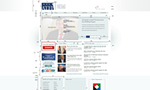
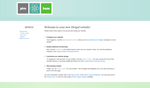
release

diff --git a/subthemes/piroshare/css/color.css b/subthemes/piroshare/css/color.css
@@ -1,1 +1,209 @@
 @CHARSET "ISO-8859-1";
+
+/* $Id$ */
+
+/* Global */
+
+body,
+body#tinymce {
+  background-color: #FFF;
+}
+
+body,
+table,
+td {
+  color: #333;
+}
+
+a:link {
+  color: #007EE4;
+}
+
+a:visited {
+  color: #899FAF;
+}
+
+a:hover {
+  color: #007EE4;
+}
+
+a:visited:hover {
+  color: #899FAF;
+}
+
+a:focus {
+  color: #333;
+}
+
+th a:link,
+th a:visited {
+  color: #A9D3E6;
+}
+
+/* Fieldsets */
+
+div.collapsible h2.fieldset-title {
+  background-color: #ccc;
+}
+
+div.expanded h2.fieldset-title a:link,
+div.expanded h2.fieldset-title a:visited {
+  color: #333;
+}
+
+h2.fieldset-title,
+div.collapsed h2.fieldset-title {
+  background-color: #E2E2E2;
+}
+
+div.fieldset-content,
+fieldset {
+  border: 1px solid #eee;
+}
+
+/* Tabs */
+
+ul.tabs li a:link,
+ul.tabs li a:visited {
+  background: #E6E6E6;
+  color: #007EE4;
+}
+
+ul.tabs li a.active {
+  color: #333;
+}
+
+/* Menus */
+
+li.active-trail a.active {
+  color: #333;
+}
+
+ul.nice-menu,
+ul.nice-menu ul,
+ul.nice-menu li {
+  border: none;
+}
+
+/* Messages */
+
+.status {
+  background-color: #CDFFD1;
+}
+
+.help {
+  background-color: #D2D9FF;
+}
+
+.notice {
+  background-color: #FFFDB5;
+}
+
+div.error {
+  background-color: #FCC;
+  border: none;
+}
+
+tr.error {
+  background-color: #FCC;
+  color: #333;
+}
+
+/* Nodes */
+
+.submitted {
+  color: #777;
+}
+
+/* Comments */
+
+.comment {
+  border-bottom: 1px solid #E6E6E6;
+}
+
+/* Forms */
+
+textarea,
+input.form-text,
+select {
+  border: 1px solid #ccc;  
+}
+
+input.form-text
+textarea,
+select {
+  color: #333;
+  background-color: #fff;
+}
+
+input.form-submit,
+input.teaser-button,
+input[type=button] {
+  background-color: #E6E6E6;
+  border: none;
+}
+
+input.form-text:focus,
+textarea:focus {
+  background-color: #F5F9FB;
+}
+
+.form-item input.error,
+.form-item textarea.error,
+.form-item select.error {
+  border: 1px solid #F88;
+}
+
+/* Admin */
+
+div.admin-dependencies,
+div.admin-required {
+  color: #A3A3A3;
+}
+
+/* Modules */
+
+#admin-menu li li {
+  opacity: 1;
+}
+
+/* Pirobase */
+
+#header_main {
+  background: url("../img/headerbg.jpg") no-repeat scroll center top transparent;
+}
+
+#header {
+  background: #BAE2DD;
+}
+
+#footer_top {
+  background: url("../img/footerbg.jpg") repeat-y scroll center top #D2EFC9;
+}
+
+#main_menu ul.links li a:hover {
+  background: #F7F8F7;
+}
+
+#main_menu ul.links li a {
+  color: #253F6A;
+}
+
+#main_menu ul.links li a.active {
+  background: #F7F8F7;
+}
+
+#header_search #search-theme-form input.form-text {
+  color: #8C8C8C;
+}
+
+#header_search #search-theme-form #edit-search-theme-form-1 {
+  background: #FFFFFF;
+}
+
+#header_search #search-theme-form input.search-default-font { 
+  color: #5A5A5A;
+}
+
+
+

diff --git a/css/color.css b/css/color.css
@@ -172,11 +172,11 @@ div.admin-required {
 }
 
 #header {
-  background: #eef1ef;
+  background: #BAE2DD;
 }
 
 #footer_top {
-  background: url("../img/footerbg.jpg") repeat-y scroll center top #eef1ef;
+  background: url("../img/footerbg.jpg") repeat-y scroll center top #D2EFC9;
 }
 
 #main_menu ul.links li a:hover {

diff --git a/css/htmlelements.css b/css/htmlelements.css
@@ -539,7 +539,7 @@ div.view-display-id-attachment_1 .teaser {
 
 /* End hide from IE-mac */
 
-/* Two State */
+/* Pirobase */
 
 #header_search #search-theme-form .form-submit {
   display: none;

diff --git a/css/typography.css b/css/typography.css
@@ -379,7 +379,7 @@ a.blue-btn-1:hover, a.red-btn-1:hover {
   letter-spacing: -0.45em;
 }
 
-/* Two State */
+/* Pirobase */
 
 #header_top .header_links a:hover {
   text-decoration: none;

diff --git a/css/layout.css b/css/layout.css
@@ -39,8 +39,8 @@
 
 a#logo {
   display: block;
-  width: 400px;
-  height: 125px;
+  width: 340px;
+  height: 120px;
   text-decoration: none;
   position: relative;
   top: 20px;

diff --git a/css/navigation.css b/css/navigation.css
@@ -114,7 +114,7 @@ ul.menu li li a {
   border-right: 1px solid #CCCCCC;
 }
 
-/* Two State */
+/* Pirobase */
 
 #header_top .header_links ul.menu {
   padding-left: 0px;
